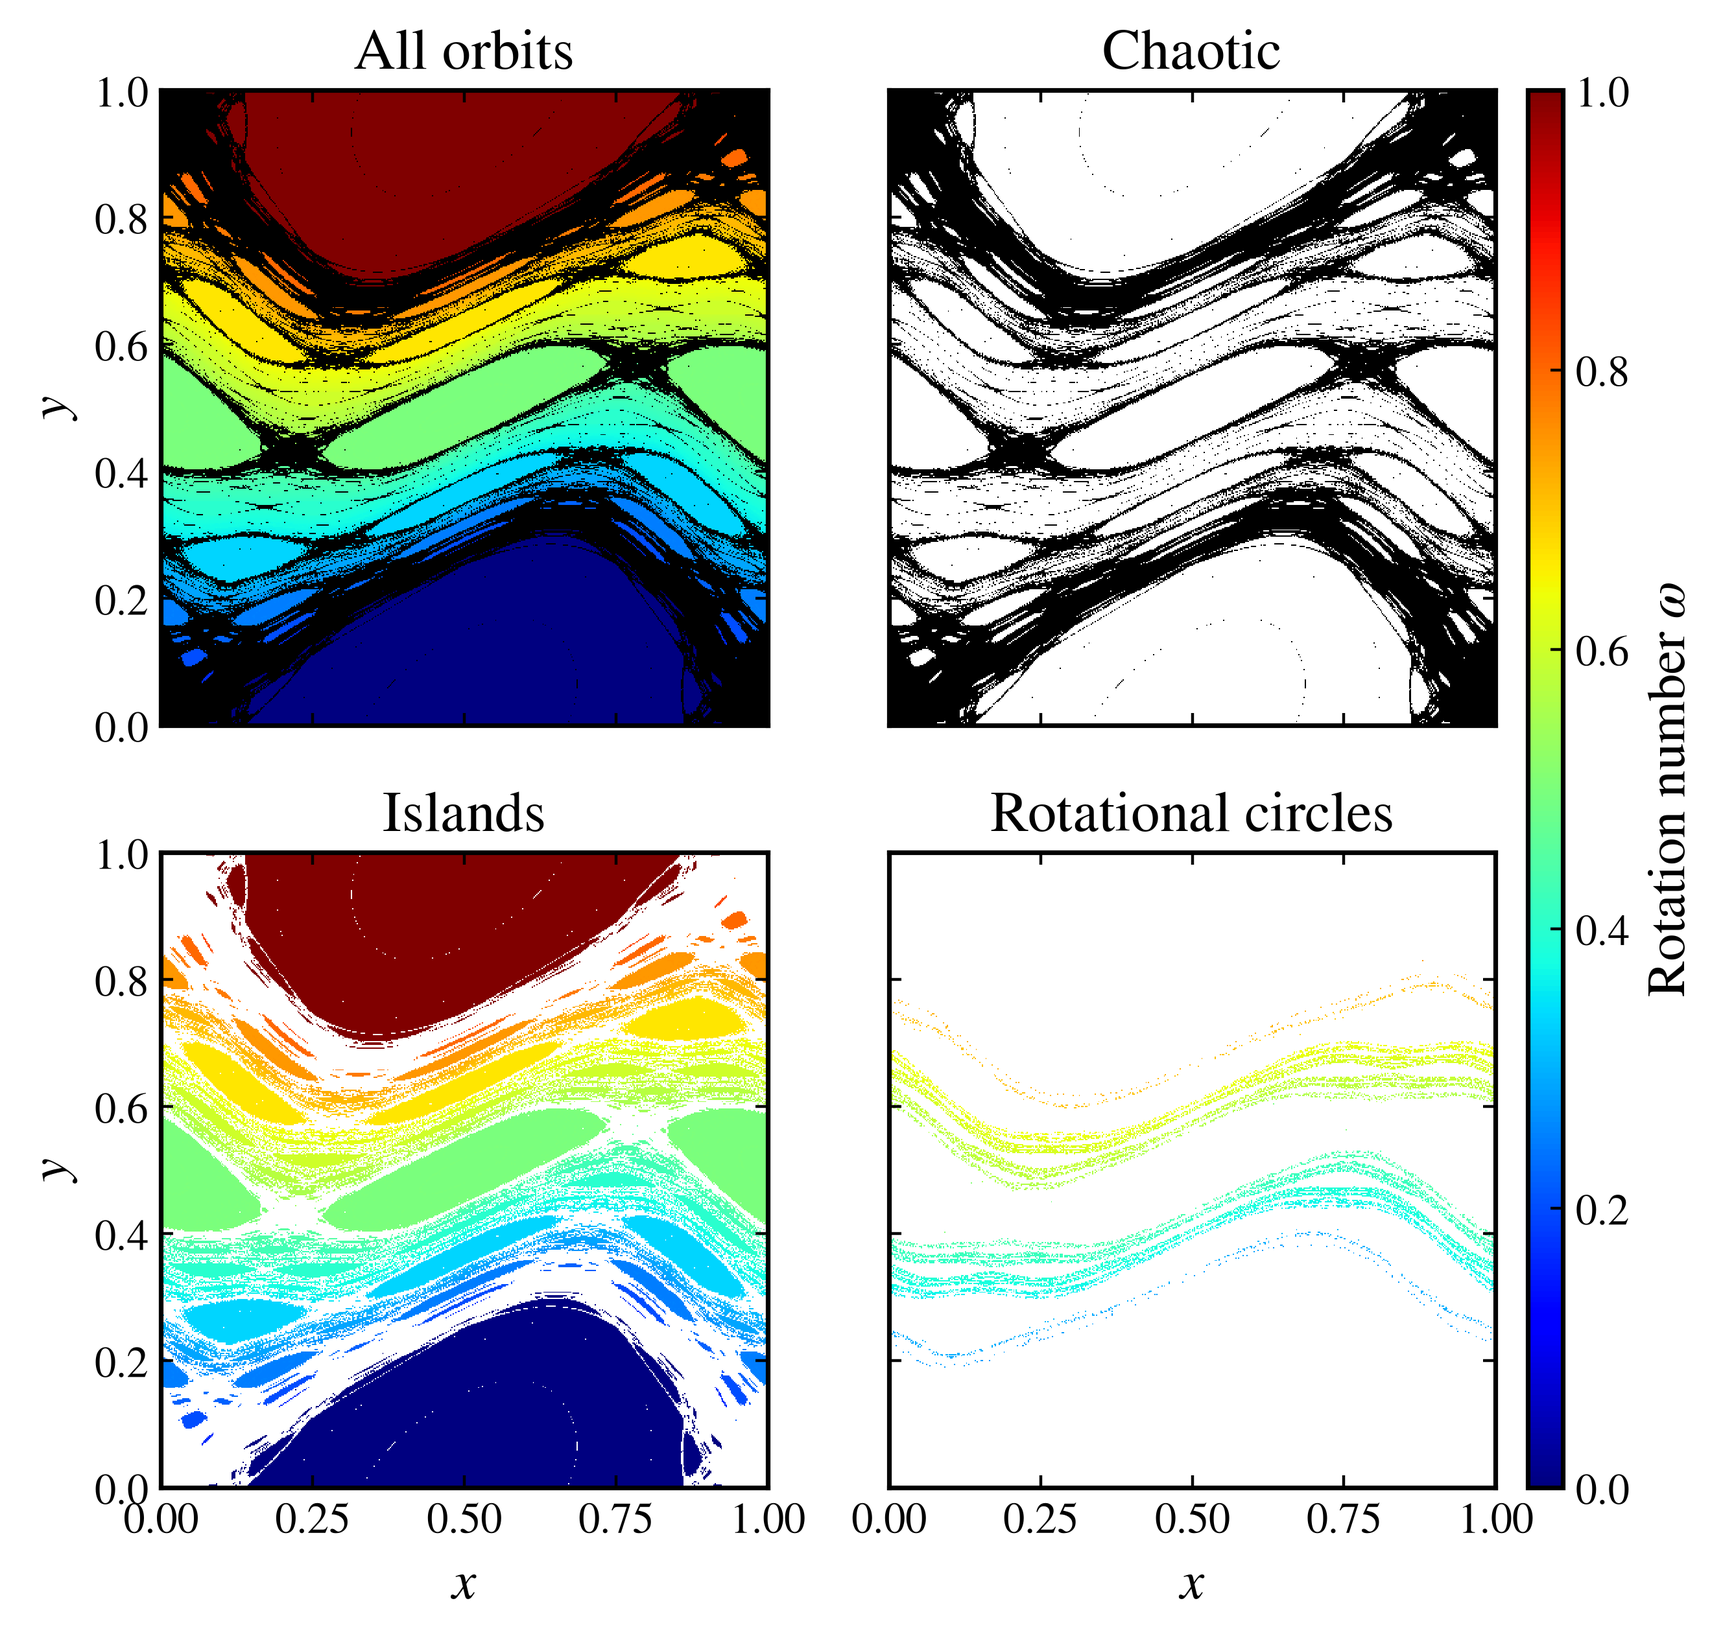
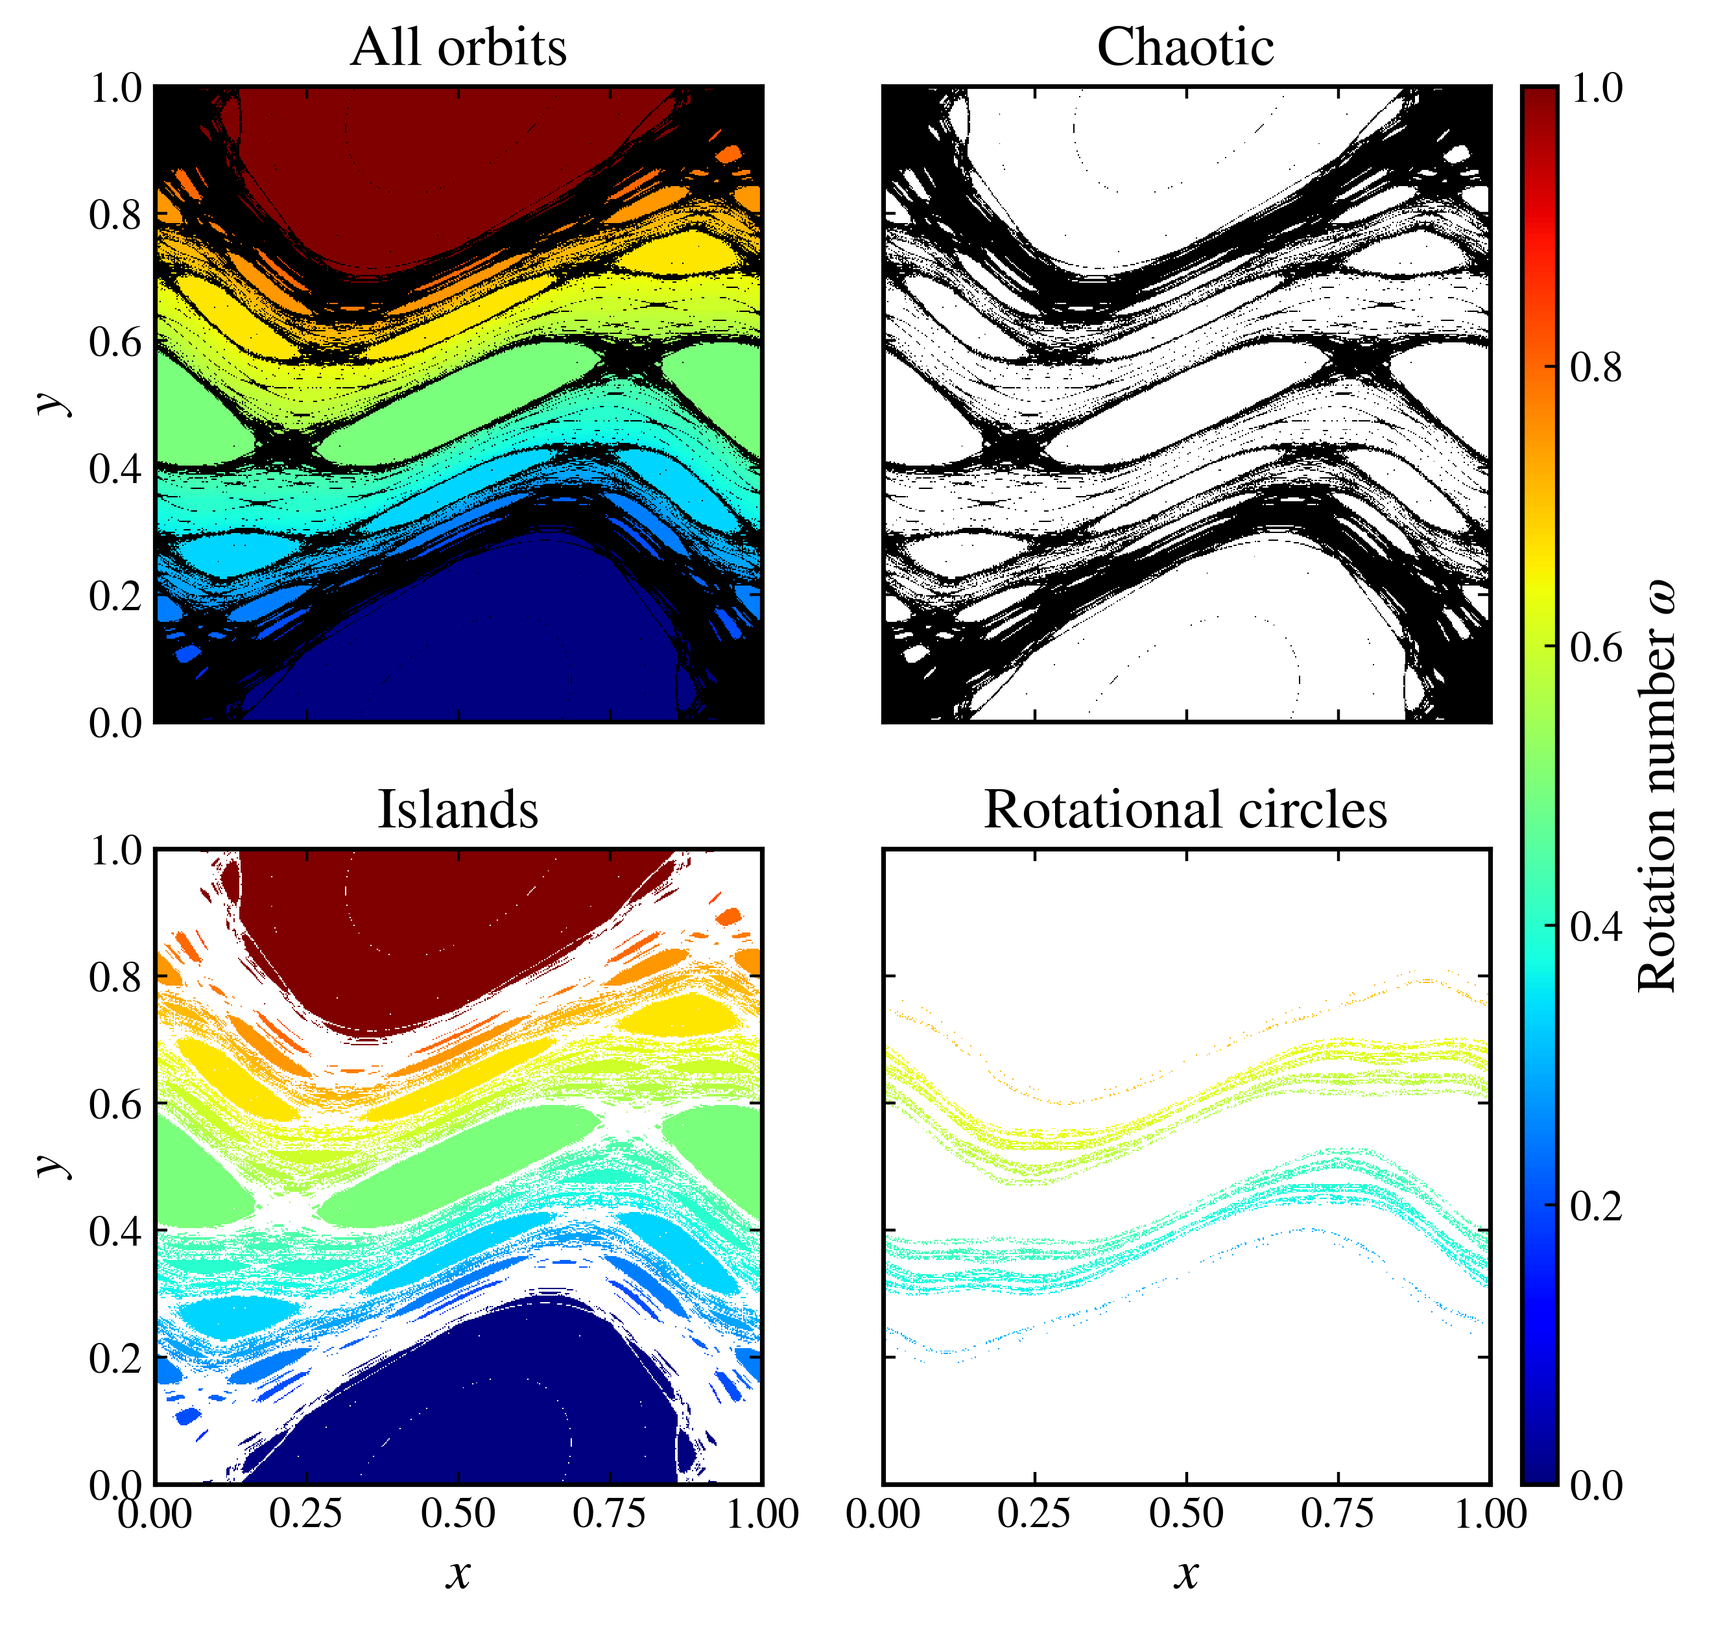
feat: report regular orbits with an unconverged rotation number as undetermined in classify_orbit

Changed region(s): [[0.0311, 0.0, 0.4659, 0.9649], [0.497, 0.0, 0.9939, 0.9649]]

diff --git a/src/pynamicalsys/core/discrete_dynamical_systems.py b/src/pynamicalsys/core/discrete_dynamical_systems.py
@@ -69,6 +69,7 @@ from pynamicalsys.discrete_time.rotation import (
     classify_orbit,
     CHAOTIC,
     ISLAND,
+    UNDETERMINED,
 )
 from pynamicalsys.discrete_time.escape import (
     escape_basin_and_time_entering,
@@ -2077,7 +2078,7 @@ class DiscreteDynamicalSystem:
     ) -> dict[str, str | float]:
         """
         Classify an orbit as chaotic, in an island chain, or on a rotational
-        invariant circle.
+        invariant circle, or report that its type is undetermined.
 
         The classification follows Sander and Meiss (2020). Two weighted
         Birkhoff averages are computed over two consecutive windows of
@@ -2095,9 +2096,11 @@ class DiscreteDynamicalSystem:
 
         The orbit is classified as follows:
 
-        - If ``dig >= dig_threshold``, the orbit is regular. It lies on a
+        - If ``dig >= dig_threshold``, the orbit is regular. If its rotation
+          number has converged, ``dig_omega >= omega_threshold``, it lies on a
           rotational circle if ``|log10(q_min) - tol / 2| < dev_threshold`` and
-          in an island chain otherwise.
+          in an island chain otherwise. If its rotation number has not
+          converged, the orbit is ``"undetermined"`` (see Notes).
         - If ``dig < dig_threshold``, the orbit lies in an island chain if
           ``dig_omega >= omega_threshold`` and
           ``log10(q_min) < tol / 2 - dev_threshold``, which covers island
@@ -2142,9 +2145,12 @@ class DiscreteDynamicalSystem:
         dict[str, str | float]
             Dictionary with keys
 
-            - ``"classification"`` : ``"chaotic"``, ``"island"``, or ``"circle"``
+            - ``"classification"`` : ``"chaotic"``, ``"island"``, ``"circle"``,
+              or ``"undetermined"``
             - ``"rotation_number"`` : rotation number in turns per iteration,
-              or NaN if the orbit is chaotic
+              or NaN if the orbit is chaotic. For an undetermined orbit, it is
+              the estimate from the two windows, accurate to about
+              ``dig_omega`` digits.
             - ``"dig"`` : number of digits in which the two weighted Birkhoff
               averages of the observable agree
             - ``"dig_omega"`` : number of digits in which the two weighted
@@ -2172,6 +2178,18 @@ class DiscreteDynamicalSystem:
 
         Notes
         -----
+        An orbit is ``"undetermined"`` when it is regular, ``dig >=
+        dig_threshold``, but its rotation number has not converged,
+        ``dig_omega < omega_threshold``. The rationality test would then be
+        applied to digits that are not yet reliable, so island chains and
+        rotational circles cannot be told apart. On a regular orbit, the
+        weighted Birkhoff average converges faster than any power of
+        ``total_time``, so classifying the orbit again with a longer
+        ``total_time`` usually settles it. With longer windows, some of these
+        orbits turn out to be chaotic. Lowering ``omega_threshold`` also
+        classifies them, but ``tol`` must then stay below it, which makes the
+        rationality test coarser.
+
         Orbits in an island chain encircle a periodic orbit, so their rotation
         number averages to that of the periodic orbit, a rational number. The
         default ``dev_threshold`` is conservative: about 19% of randomly chosen
@@ -2248,6 +2266,8 @@ class DiscreteDynamicalSystem:
             label = "chaotic"
         elif orbit_class == ISLAND:
             label = "island"
+        elif orbit_class == UNDETERMINED:
+            label = "undetermined"
         else:
             label = "circle"
 

diff --git a/src/pynamicalsys/discrete_time/rotation.py b/src/pynamicalsys/discrete_time/rotation.py
@@ -30,6 +30,7 @@ from pynamicalsys.discrete_time.birkhoff import (
 CHAOTIC = 0
 ISLAND = 1
 CIRCLE = 2
+UNDETERMINED = 3
 
 
 @njit
@@ -417,8 +418,11 @@ def classify_orbit(
     Returns
     -------
     tuple[int, float, float, float]
-        Orbit class (`CHAOTIC`, `ISLAND`, or `CIRCLE`), rotation number (NaN if
-        chaotic), `dig_h`, and `dig_omega`.
+        Orbit class (`CHAOTIC`, `ISLAND`, `CIRCLE`, or `UNDETERMINED`),
+        rotation number (NaN if chaotic), `dig_h`, and `dig_omega`. A regular
+        orbit (`dig_h >= dig_threshold`) is `UNDETERMINED` when its rotation
+        number has not converged (`dig_omega < omega_threshold`), since the
+        rationality test would then be applied to unconverged digits.
 
     Notes
     -----
@@ -440,6 +444,14 @@ def classify_orbit(
     if not np.isfinite(omega):
         return CHAOTIC, np.nan, dig_h, dig_omega
 
+    # The rationality test is meaningful only if the rotation number has
+    # converged; otherwise it would be applied to digits that are not yet
+    # reliable.
+    if dig_omega < omega_threshold:
+        if dig_h >= dig_threshold:
+            return UNDETERMINED, omega, dig_h, dig_omega
+        return CHAOTIC, np.nan, dig_h, dig_omega
+
     log_q_min = np.log10(smallest_denominator(omega, 10.0 ** (-tol)))
 
     if dig_h >= dig_threshold:
@@ -447,7 +459,7 @@ def classify_orbit(
             return CIRCLE, omega, dig_h, dig_omega
         return ISLAND, omega, dig_h, dig_omega
 
-    if dig_omega >= omega_threshold and log_q_min < 0.5 * tol - dev_threshold:
+    if log_q_min < 0.5 * tol - dev_threshold:
         return ISLAND, omega, dig_h, dig_omega
 
     return CHAOTIC, np.nan, dig_h, dig_omega

diff --git a/tests/discrete_time/test_rotation_number.py b/tests/discrete_time/test_rotation_number.py
@@ -169,3 +169,21 @@ def test_default_observable_period():
     default = system.classify_orbit(u, TOTAL_TIME, period=2 * np.pi)
     assert default["dig"] == explicit["dig"]
     assert default["classification"] == "circle"
+
+
+def test_classify_orbit_undetermined_until_omega_converges():
+    # A regular orbit whose rotation number has converged to only about 8
+    # digits with windows of 10000 iterations, below omega_threshold = 9. The
+    # rationality test is not applied to it, and longer windows classify it.
+    system = unbounded_standard_map(0.9)
+    u = [0.6896, 0.5004]
+
+    short = system.classify_orbit(u, 10_000)
+    assert short["classification"] == "undetermined"
+    assert short["dig"] >= 5.5
+    assert short["dig_omega"] < 9.0
+    assert np.isfinite(short["rotation_number"])
+
+    long = system.classify_orbit(u, 40_000)
+    assert long["classification"] == "circle"
+    assert long["dig_omega"] >= 9.0

diff --git a/docs/source/dds_wba.rst b/docs/source/dds_wba.rst
@@ -163,7 +163,7 @@ Besides separating regular from chaotic orbits, the weighted Birkhoff average gi
 
 and in an island chain otherwise. The defaults :math:`\mathrm{tol}=8` and :math:`\mathrm{dev}_{\mathrm{c}}=0.3375` are those of Sander and Meiss. They are conservative: some rotational circles are reported as islands, but island orbits are rarely reported as circles.
 
-The :py:meth:`classify_orbit <pynamicalsys.core.discrete_dynamical_systems.DiscreteDynamicalSystem.classify_orbit>` method combines this test with the :math:`\mathrm{dig}` indicator of an observable :math:`h`. It requires a frequency map, so the example below uses the ``unbounded standard map``, which provides one. Like :py:meth:`dig <pynamicalsys.core.discrete_dynamical_systems.DiscreteDynamicalSystem.dig>`, it compares two consecutive windows of ``total_time`` iterations each, and it also returns the number of converged digits of the rotation number, :math:`\mathrm{dig}_\omega`. An orbit with :math:`\mathrm{dig}` at least ``dig_threshold``, which is 5.5 by default, is regular and is classified by the test above. An orbit with a smaller :math:`\mathrm{dig}` is still classified as an island if its rotation number has converged (:math:`\mathrm{dig}_\omega` at least ``omega_threshold``) and is a rational with a small denominator, which covers island orbits on which the average of :math:`h` converges slowly. All other orbits are chaotic. The default observable is :math:`h=\cos(2\pi u_0/T)`, where the first coordinate :math:`u_0` is assumed to be the angle and :math:`T` is its period, given by ``period`` (1 by default). For other systems, pass the observable as ``func``.
+The :py:meth:`classify_orbit <pynamicalsys.core.discrete_dynamical_systems.DiscreteDynamicalSystem.classify_orbit>` method combines this test with the :math:`\mathrm{dig}` indicator of an observable :math:`h`. It requires a frequency map, so the example below uses the ``unbounded standard map``, which provides one. Like :py:meth:`dig <pynamicalsys.core.discrete_dynamical_systems.DiscreteDynamicalSystem.dig>`, it compares two consecutive windows of ``total_time`` iterations each, and it also returns the number of converged digits of the rotation number, :math:`\mathrm{dig}_\omega`. An orbit with :math:`\mathrm{dig}` at least ``dig_threshold``, which is 5.5 by default, is regular. If its rotation number has converged, with :math:`\mathrm{dig}_\omega` at least ``omega_threshold``, which is 9 by default, it is classified by the test above. Otherwise, the test would be applied to digits that are not yet reliable, and the orbit is reported as ``undetermined``. An orbit with a smaller :math:`\mathrm{dig}` is still classified as an island if its rotation number has converged (:math:`\mathrm{dig}_\omega` at least ``omega_threshold``) and is a rational with a small denominator, which covers island orbits on which the average of :math:`h` converges slowly. All other orbits are chaotic. The default observable is :math:`h=\cos(2\pi u_0/T)`, where the first coordinate :math:`u_0` is assumed to be the angle and :math:`T` is its period, given by ``period`` (1 by default). For other systems, pass the observable as ``func``.
 
 To see where each type of orbit lies, classify a grid of initial conditions covering one period of both coordinates of the unbounded standard map, :math:`[0,1)\times[0,1)`. For a map whose coordinates are taken modulo :math:`2\pi`, the grid would cover :math:`[0,2\pi)\times[0,2\pi)` instead. With a :math:`500\times500` grid, the computation takes a few minutes:
 
@@ -178,7 +178,7 @@ To see where each type of orbit lies, classify a grid of initial conditions cove
     y = np.linspace(0.0, 1.0, grid_size, endpoint=False)
     X, Y = np.meshgrid(x, y)
 
-    classes = np.empty(X.shape, dtype="<U7")
+    classes = np.empty(X.shape, dtype="<U12")
     omega = np.empty(X.shape)
     dig = np.empty(X.shape)
     for i in range(grid_size):
@@ -215,6 +215,25 @@ First, plot :math:`\mathrm{dig}`, the number of digits in which the weighted Bir
     Number of converged digits of the weighted Birkhoff average of :math:`h=\cos(2\pi x)` for a :math:`500\times500` grid of initial conditions of the unbounded standard map with :math:`k=0.9`. Initial conditions with :math:`\mathrm{dig}<5.5` are shown in black.
 
 On regular orbits, the two averages agree to a large number of digits, limited by double precision, while on chaotic orbits they agree to only a few. The black region is therefore the chaotic set, apart from island orbits on which the average of the observable converges slowly, which :py:meth:`classify_orbit <pynamicalsys.core.discrete_dynamical_systems.DiscreteDynamicalSystem.classify_orbit>` recovers from the convergence of the rotation number.
+
+Orbits classified as ``undetermined`` are regular, since their :math:`\mathrm{dig}` is at least ``dig_threshold``, but their rotation number has not converged to ``omega_threshold`` digits, so the rationality test cannot tell an island chain from a rotational circle. On a regular orbit, the weighted Birkhoff average converges faster than any power of the window length, so a longer window usually settles the classification. Count these orbits and classify them again with windows four times longer:
+
+.. code-block:: python
+
+    undetermined = np.argwhere(classes == "undetermined")
+    print(len(undetermined))
+    for i, j in undetermined:
+        result = system.classify_orbit([X[i, j], Y[i, j]], 4 * total_time)
+        classes[i, j] = result["classification"]
+        omega[i, j] = result["rotation_number"]
+    print(np.count_nonzero(classes == "undetermined"))
+
+.. code-block:: text
+
+    5911
+    855
+
+Most of them are classified with the longer windows. Some turn out to be chaotic: the averages of their observable agreed over the shorter windows, but not over the longer ones. Windows ten times longer than the original ones leave fewer orbits undetermined still. Lowering ``omega_threshold`` also classifies them, but ``tol`` must then stay below the new threshold, which makes the rationality test coarser. In the figure below, the orbits that remain undetermined are colored by their estimated rotation number in the first panel and do not appear in the other panels.
 
 Then plot the classification, with all orbits together and each type separately. Regular orbits are colored by their rotation number and chaotic orbits are shown in black:
 
@@ -278,7 +297,7 @@ Numerical options
     Accepted by ``dig`` only. The number of iterations discarded before the first window. ``classify_orbit`` always starts the windows at the initial condition.
 
 ``dig_threshold``, ``omega_threshold``, ``tol``, and ``dev_threshold``
-    The settings of ``classify_orbit``: the minimum :math:`\mathrm{dig}` of the observable for an orbit to be regular, by default ``5.5``; the minimum :math:`\mathrm{dig}_\omega` for the rotation number of a slowly converging orbit to be trusted, by default ``9``; the exponent :math:`\mathrm{tol}` of the rationality tolerance :math:`\delta=10^{-\mathrm{tol}}`, by default ``8``; and :math:`\mathrm{dev}_{\mathrm{c}}`, by default ``0.3375``. :math:`\mathrm{tol}` should stay below :math:`\mathrm{dig}_\omega`, otherwise the rationality test is applied to digits that have not converged.
+    The settings of ``classify_orbit``: the minimum :math:`\mathrm{dig}` of the observable for an orbit to be regular, by default ``5.5``; the minimum :math:`\mathrm{dig}_\omega` for the rotation number to be trusted, by default ``9``, below which a regular orbit is reported as ``undetermined``; the exponent :math:`\mathrm{tol}` of the rationality tolerance :math:`\delta=10^{-\mathrm{tol}}`, by default ``8``; and :math:`\mathrm{dev}_{\mathrm{c}}`, by default ``0.3375``. :math:`\mathrm{tol}` should stay below :math:`\mathrm{dig}_\omega`, otherwise the rationality test is applied to digits that have not converged.
 
 If the two windows agree exactly, :math:`\mathrm{dig}` is infinite and is returned as ``inf``.
 

diff --git a/CHANGELOG.md b/CHANGELOG.md
@@ -11,7 +11,7 @@ and this project adheres to [Semantic Versioning](https://semver.org/spec/v2.0.0
 
 - Discrete-time systems can now be given a **frequency map**, the advance of an angle variable in one iteration, in turns, through the new `frequency_map` argument of `DiscreteDynamicalSystem` or the new `set_frequency_map` method. The `unbounded standard map`, `standard nontwist map`, `extended standard nontwist map`, and `leonel map` models include one.
 - `rotation_number` now computes the rotation number from the frequency map with the **weighted Birkhoff average** (Sander and Meiss, 2020). On regular orbits it converges far faster than a plain time average, and it returns NaN for chaotic orbits, whose rotation number does not converge. The convergence criterion is set with `threshold`, the number of digits in which the averages over two consecutive windows of `total_time` iterations must agree (9 by default). The plain time average is available with `method="average"`. The rotation number is no longer reduced modulo one, so distinct integer values, such as those of accelerator modes, are kept apart.
-- New method `classify_orbit` for discrete-time systems, which classifies an orbit as chaotic, in an island chain, or on a rotational invariant circle from weighted Birkhoff averages of an observable and of the frequency map, and from whether the rotation number is rational (Sander and Meiss, 2020). It returns the classification together with the rotation number and the number of converged digits of both averages.
+- New method `classify_orbit` for discrete-time systems, which classifies an orbit as chaotic, in an island chain, or on a rotational invariant circle from weighted Birkhoff averages of an observable and of the frequency map, and from whether the rotation number is rational (Sander and Meiss, 2020). A regular orbit whose rotation number has not converged to `omega_threshold` digits is reported as undetermined, since its rationality cannot be decided; a longer `total_time` usually classifies it. It returns the classification together with the rotation number and the number of converged digits of both averages.
 - `PlotStyler` accepts Matplotlib's short names `lw`, `ms`, `mew`, and `mec` for `linewidth`, `markersize`, `markeredgewidth`, and `markeredgecolor`. Passing both a name and its alias raises an error.
 - `PlotStyler.set_tick_padding` accepts an array or list of Axes, such as the one returned by `plt.subplots`, and pads every Axes in it.
 - `lyapunov`, `SALI`, `LDI`, and `GALI` of `ContinuousDynamicalSystem` accept `return_last_state`. With `return_last_state=True`, they also return the state of the system at the time the integration stopped, which allows parameter continuation without repeating the transient.
